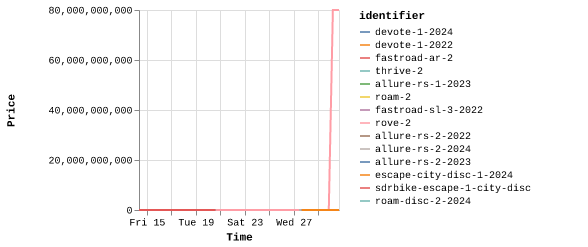
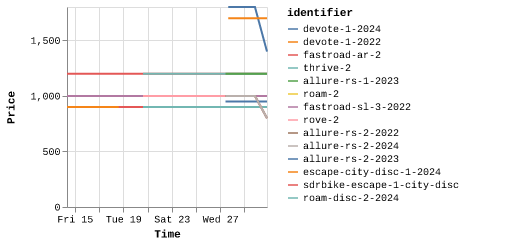
fixing bikes price parsing

Changed region(s): [[0.062, 0.0, 0.8992, 0.918], [0.2791, 0.9467, 0.4341, 0.9754], [0.0, 0.373, 0.031, 0.5164]]

diff --git a/tests/prices-utils.ts b/tests/prices-utils.ts
@@ -12,37 +12,52 @@ export function appendPriceAsString(filePath: string, identifier: string, priceA
   }
 }
 
+// function parseLocalizedNumber(input: string): number {
+//   // Remove currency symbols and spaces
+//   const cleaned = input.replace(/[^0-9.,]/g, '');
+
+//   // Try to identify the decimal separator (comma or period followed by 1-3 digits at the end)
+//   const decimalMatch = cleaned.match(/([.,])(\d{1,3})$/);
+
+//   let integerPart;
+//   if (decimalMatch) {
+//     const separator = decimalMatch[1];
+//     const decimalDigits = decimalMatch[2];
+//     const separatorCount = (cleaned.match(new RegExp(`\\${separator}`, 'g')) || []).length;
+//     const oppositeSeparator = separator === ',' ? '.' : ',';
+//     const hasOppositeSeparator = cleaned.includes(oppositeSeparator);
+
+//     // If there's only one separator, it's followed by exactly 3 digits, and no opposite separators exist,
+//     // it's likely a thousands separator (e.g., "1.199" meaning 1199)
+//     if (separatorCount === 1 && decimalDigits.length === 3 && !hasOppositeSeparator) {
+//       integerPart = cleaned;
+//     } else {
+//       // Otherwise, it's a decimal separator - take everything before it
+//       integerPart = cleaned.substring(0, decimalMatch.index);
+//     }
+//   } else {
+//     // No decimal part found, use the whole string
+//     integerPart = cleaned;
+//   }
+
+//   // Remove thousands separators (commas and periods)
+//   const cleanedInteger = integerPart.replace(/[.,]/g, '');
+
+//   // Parse to number
+//   return parseInt(cleanedInteger, 10);
+// }
+
 function parseLocalizedNumber(input: string): number {
-  // Remove currency symbols and spaces
-  const cleaned = input.replace(/[^0-9.,]/g, '');
+  const numMatch = input.match(/\d[\d.,]*/);
+  if (!numMatch) return NaN;
 
-  // Try to identify the decimal separator (comma or period followed by 1-3 digits at the end)
-  const decimalMatch = cleaned.match(/([.,])(\d{1,3})$/);
+  const numStr = numMatch[0];
+  const parts = numStr.split(/[,\.]/);
 
-  let integerPart;
-  if (decimalMatch) {
-    const separator = decimalMatch[1];
-    const decimalDigits = decimalMatch[2];
-    const separatorCount = (cleaned.match(new RegExp(`\\${separator}`, 'g')) || []).length;
-    const oppositeSeparator = separator === ',' ? '.' : ',';
-    const hasOppositeSeparator = cleaned.includes(oppositeSeparator);
-
-    // If there's only one separator, it's followed by exactly 3 digits, and no opposite separators exist,
-    // it's likely a thousands separator (e.g., "1.199" meaning 1199)
-    if (separatorCount === 1 && decimalDigits.length === 3 && !hasOppositeSeparator) {
-      integerPart = cleaned;
-    } else {
-      // Otherwise, it's a decimal separator - take everything before it
-      integerPart = cleaned.substring(0, decimalMatch.index);
-    }
-  } else {
-    // No decimal part found, use the whole string
-    integerPart = cleaned;
+  // Remove decimal part (if 1-2 digits after last separator)
+  if (parts.length > 1 && [1, 2].includes(parts[parts.length - 1].length)) {
+    parts.pop();
   }
 
-  // Remove thousands separators (commas and periods)
-  const cleanedInteger = integerPart.replace(/[.,]/g, '');
-
-  // Parse to number
-  return parseInt(cleanedInteger, 10);
+  return parseInt(parts.join(''), 10);
 }
